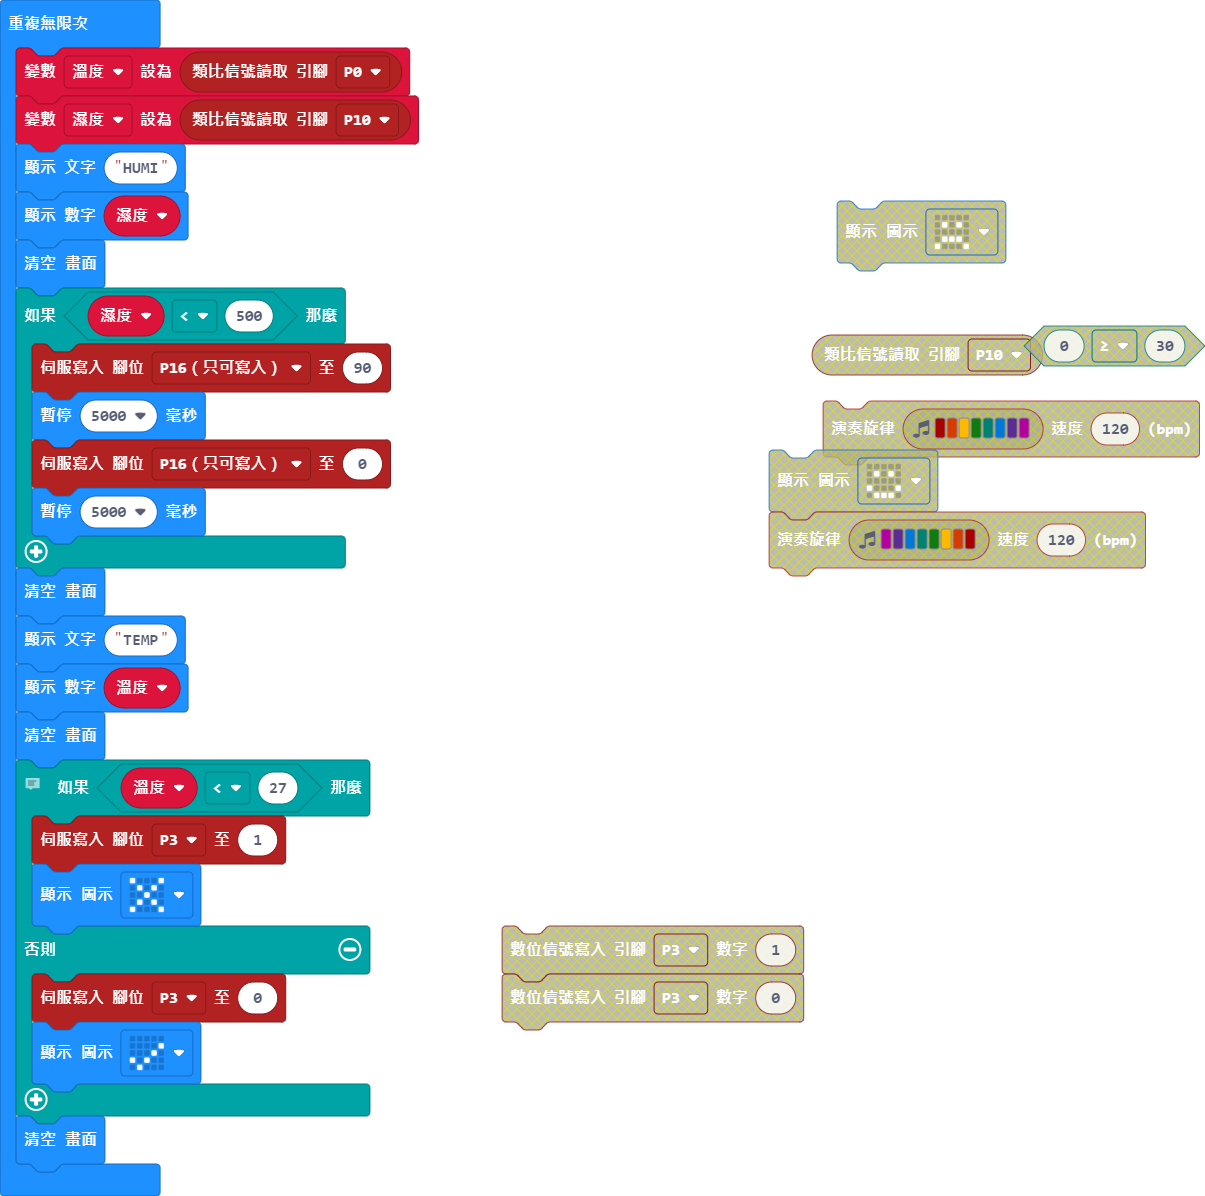
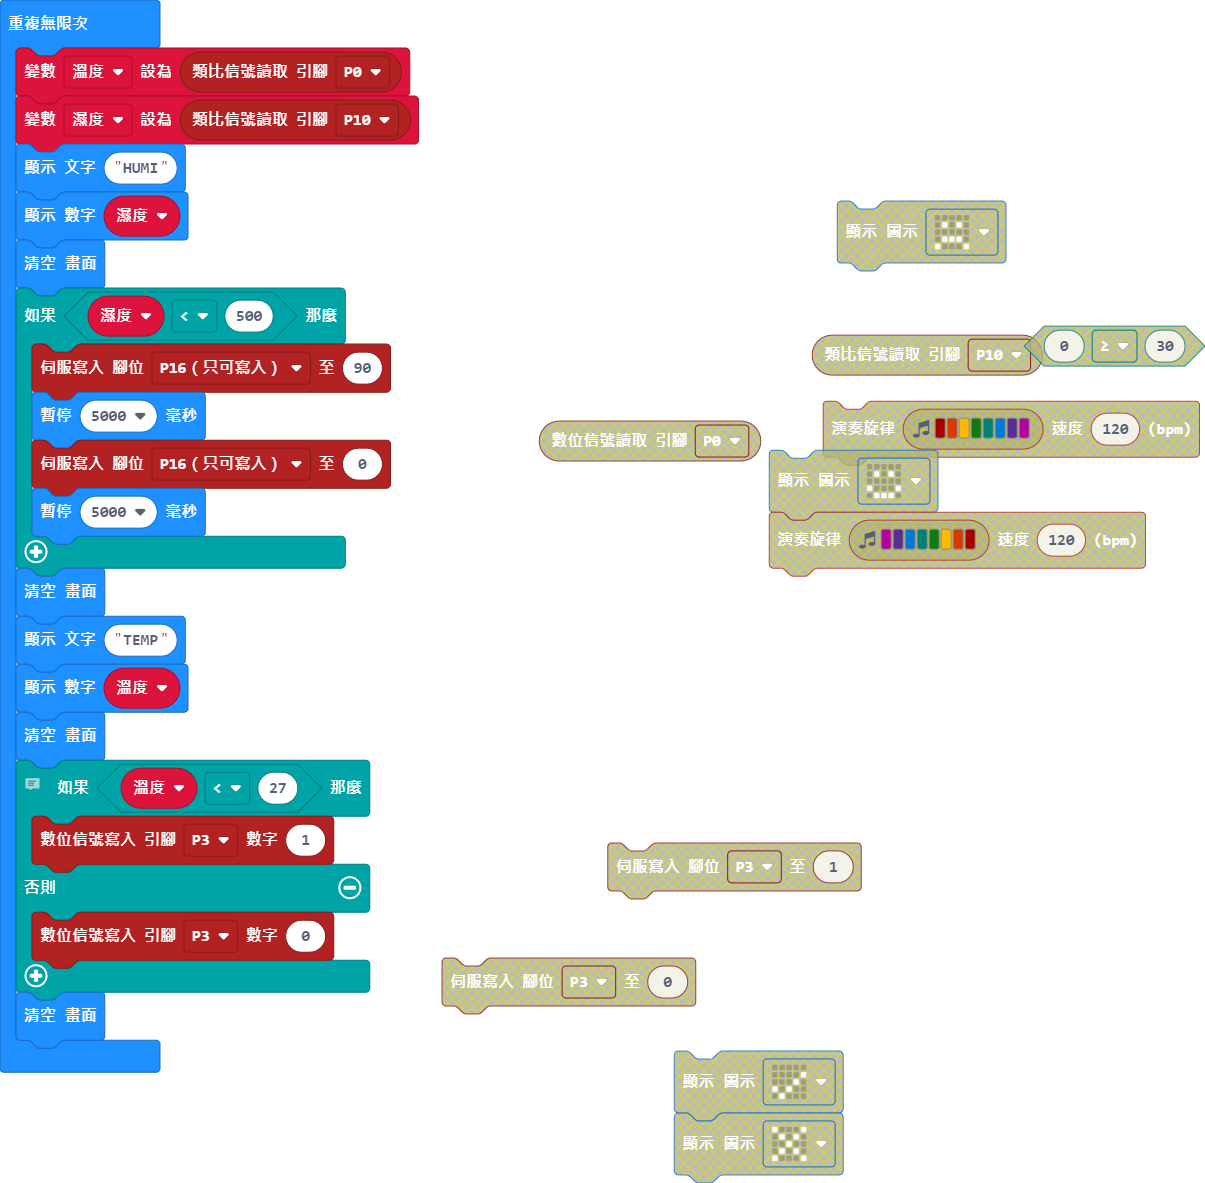
更新 main.blocks, main.ts

diff --git a/main.ts b/main.ts
@@ -18,11 +18,9 @@ basic.forever(function () {
     basic.clearScreen()
     // 預計會開燈，增加溫度
     if (溫度 < 27) {
-        pins.servoWritePin(AnalogPin.P3, 1)
-        basic.showIcon(IconNames.No)
+        pins.digitalWritePin(DigitalPin.P3, 1)
     } else {
-        pins.servoWritePin(AnalogPin.P3, 0)
-        basic.showIcon(IconNames.Yes)
+        pins.digitalWritePin(DigitalPin.P3, 0)
     }
     basic.clearScreen()
 })
